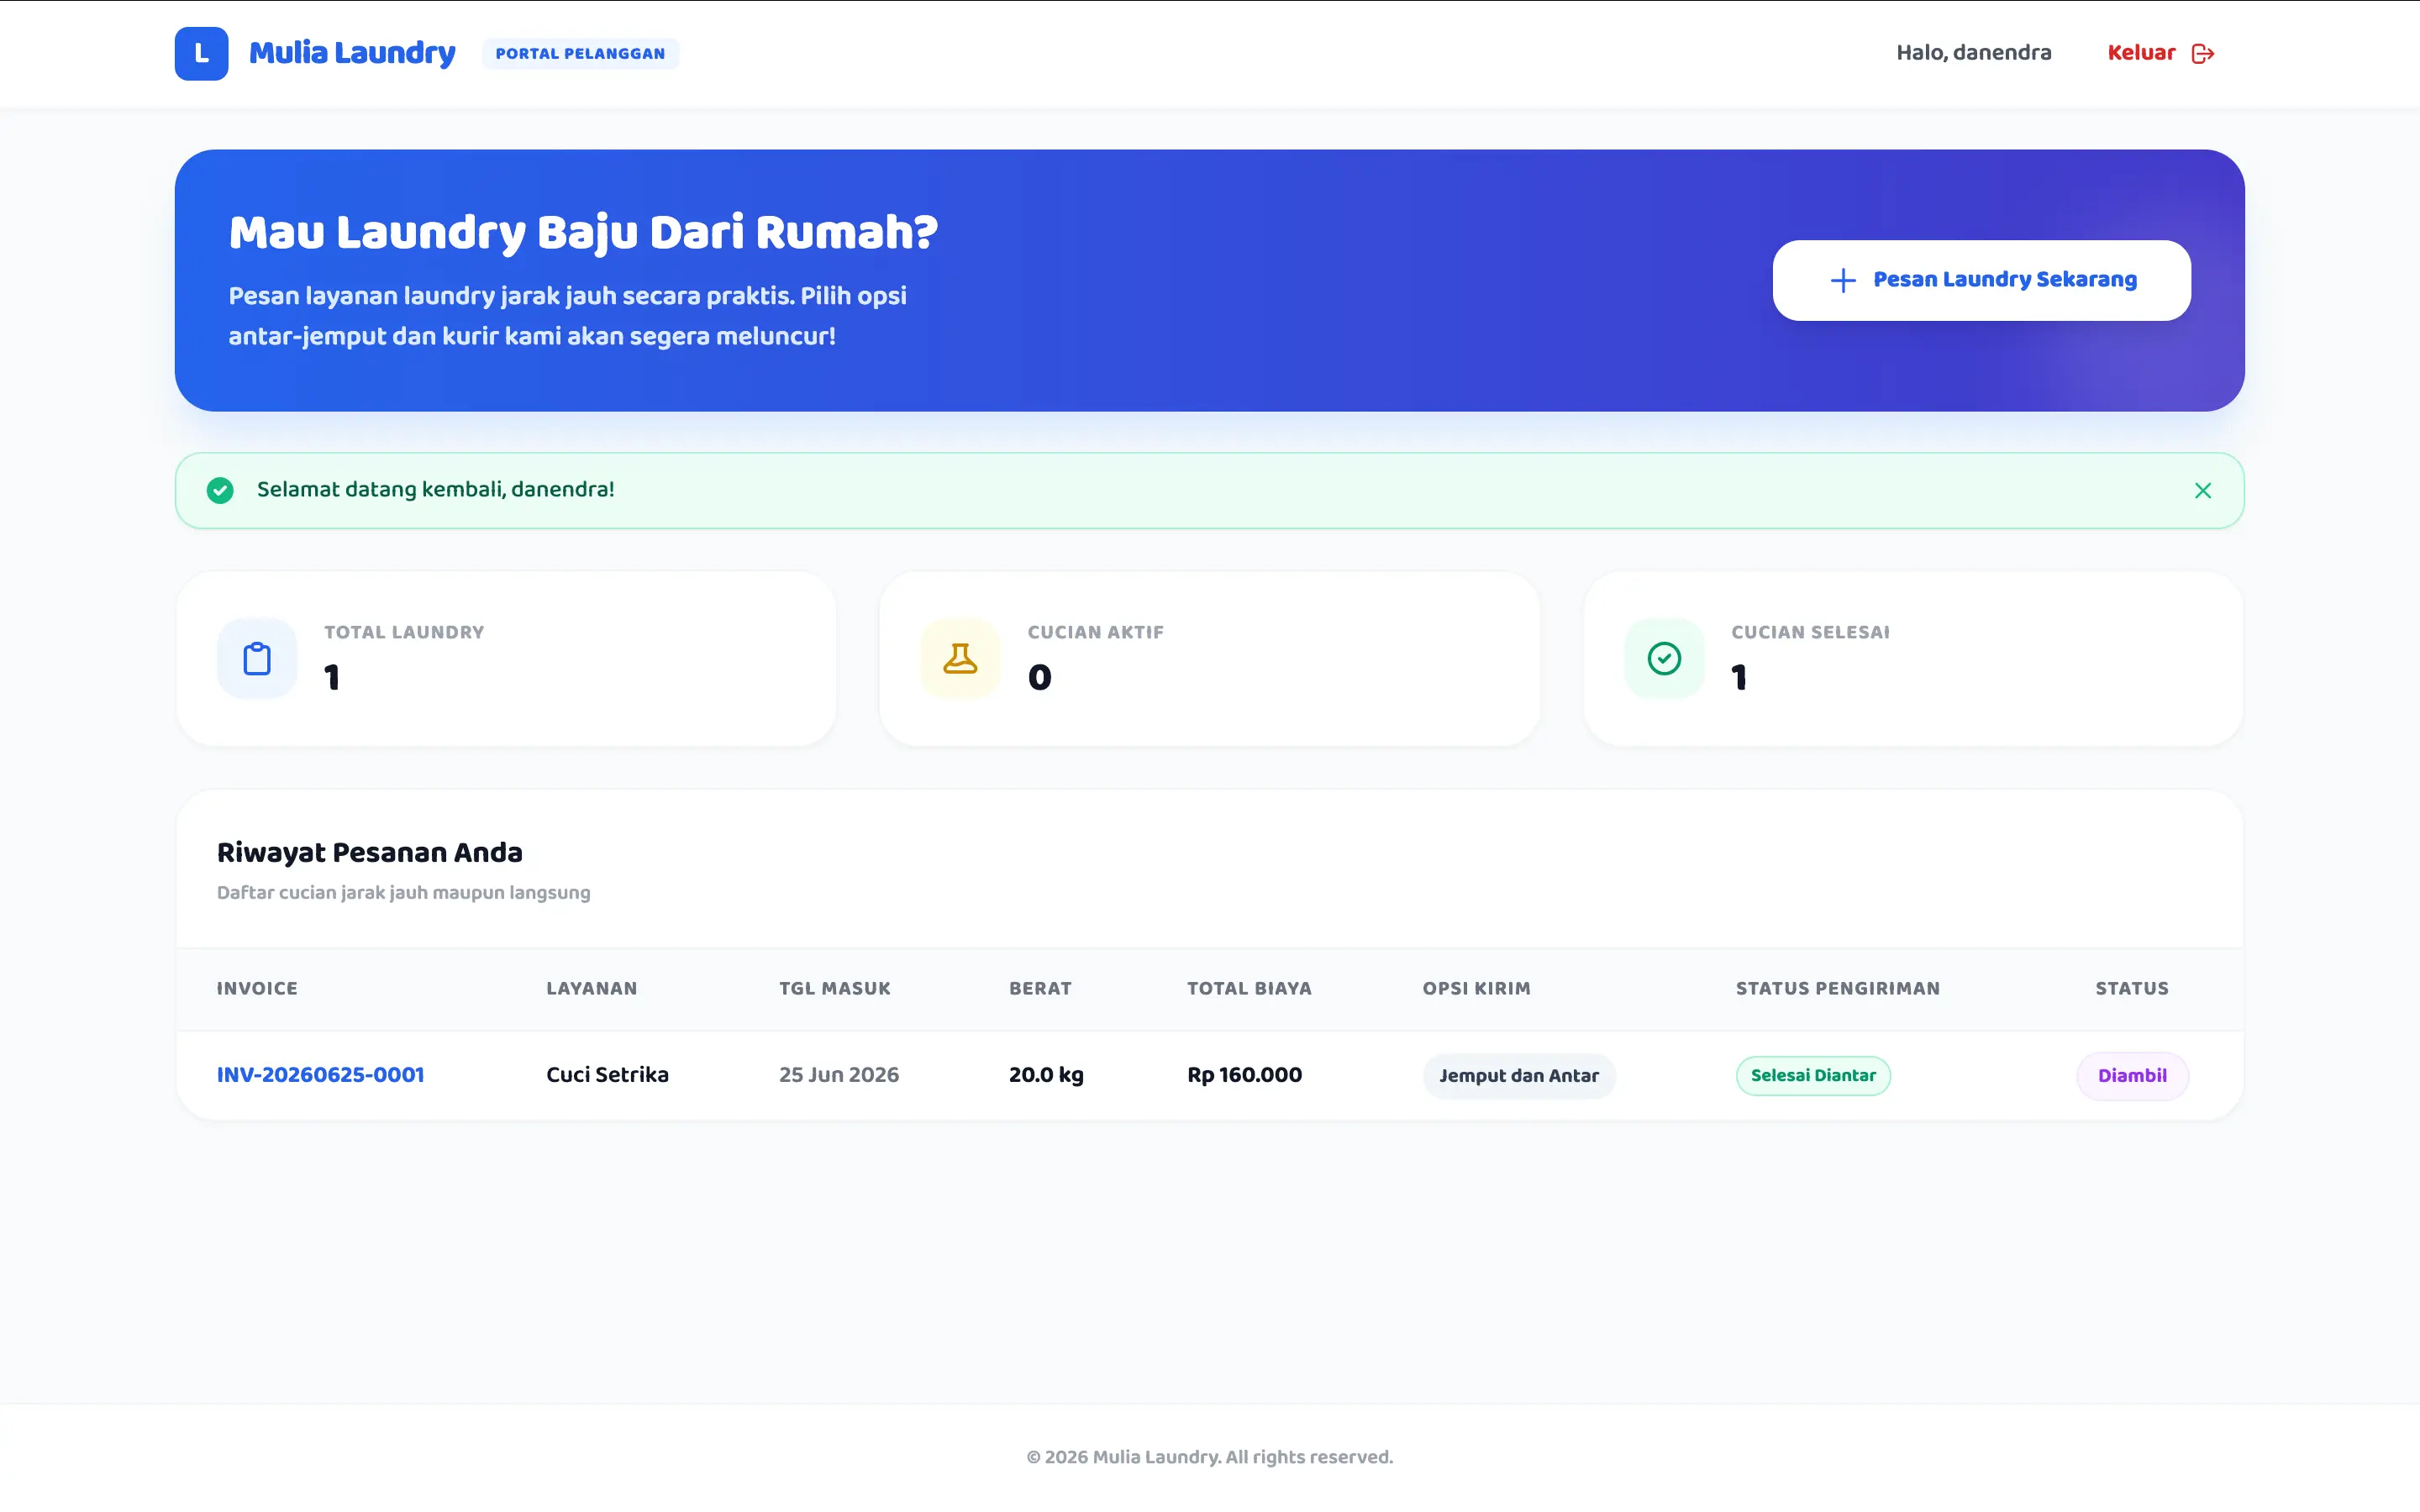
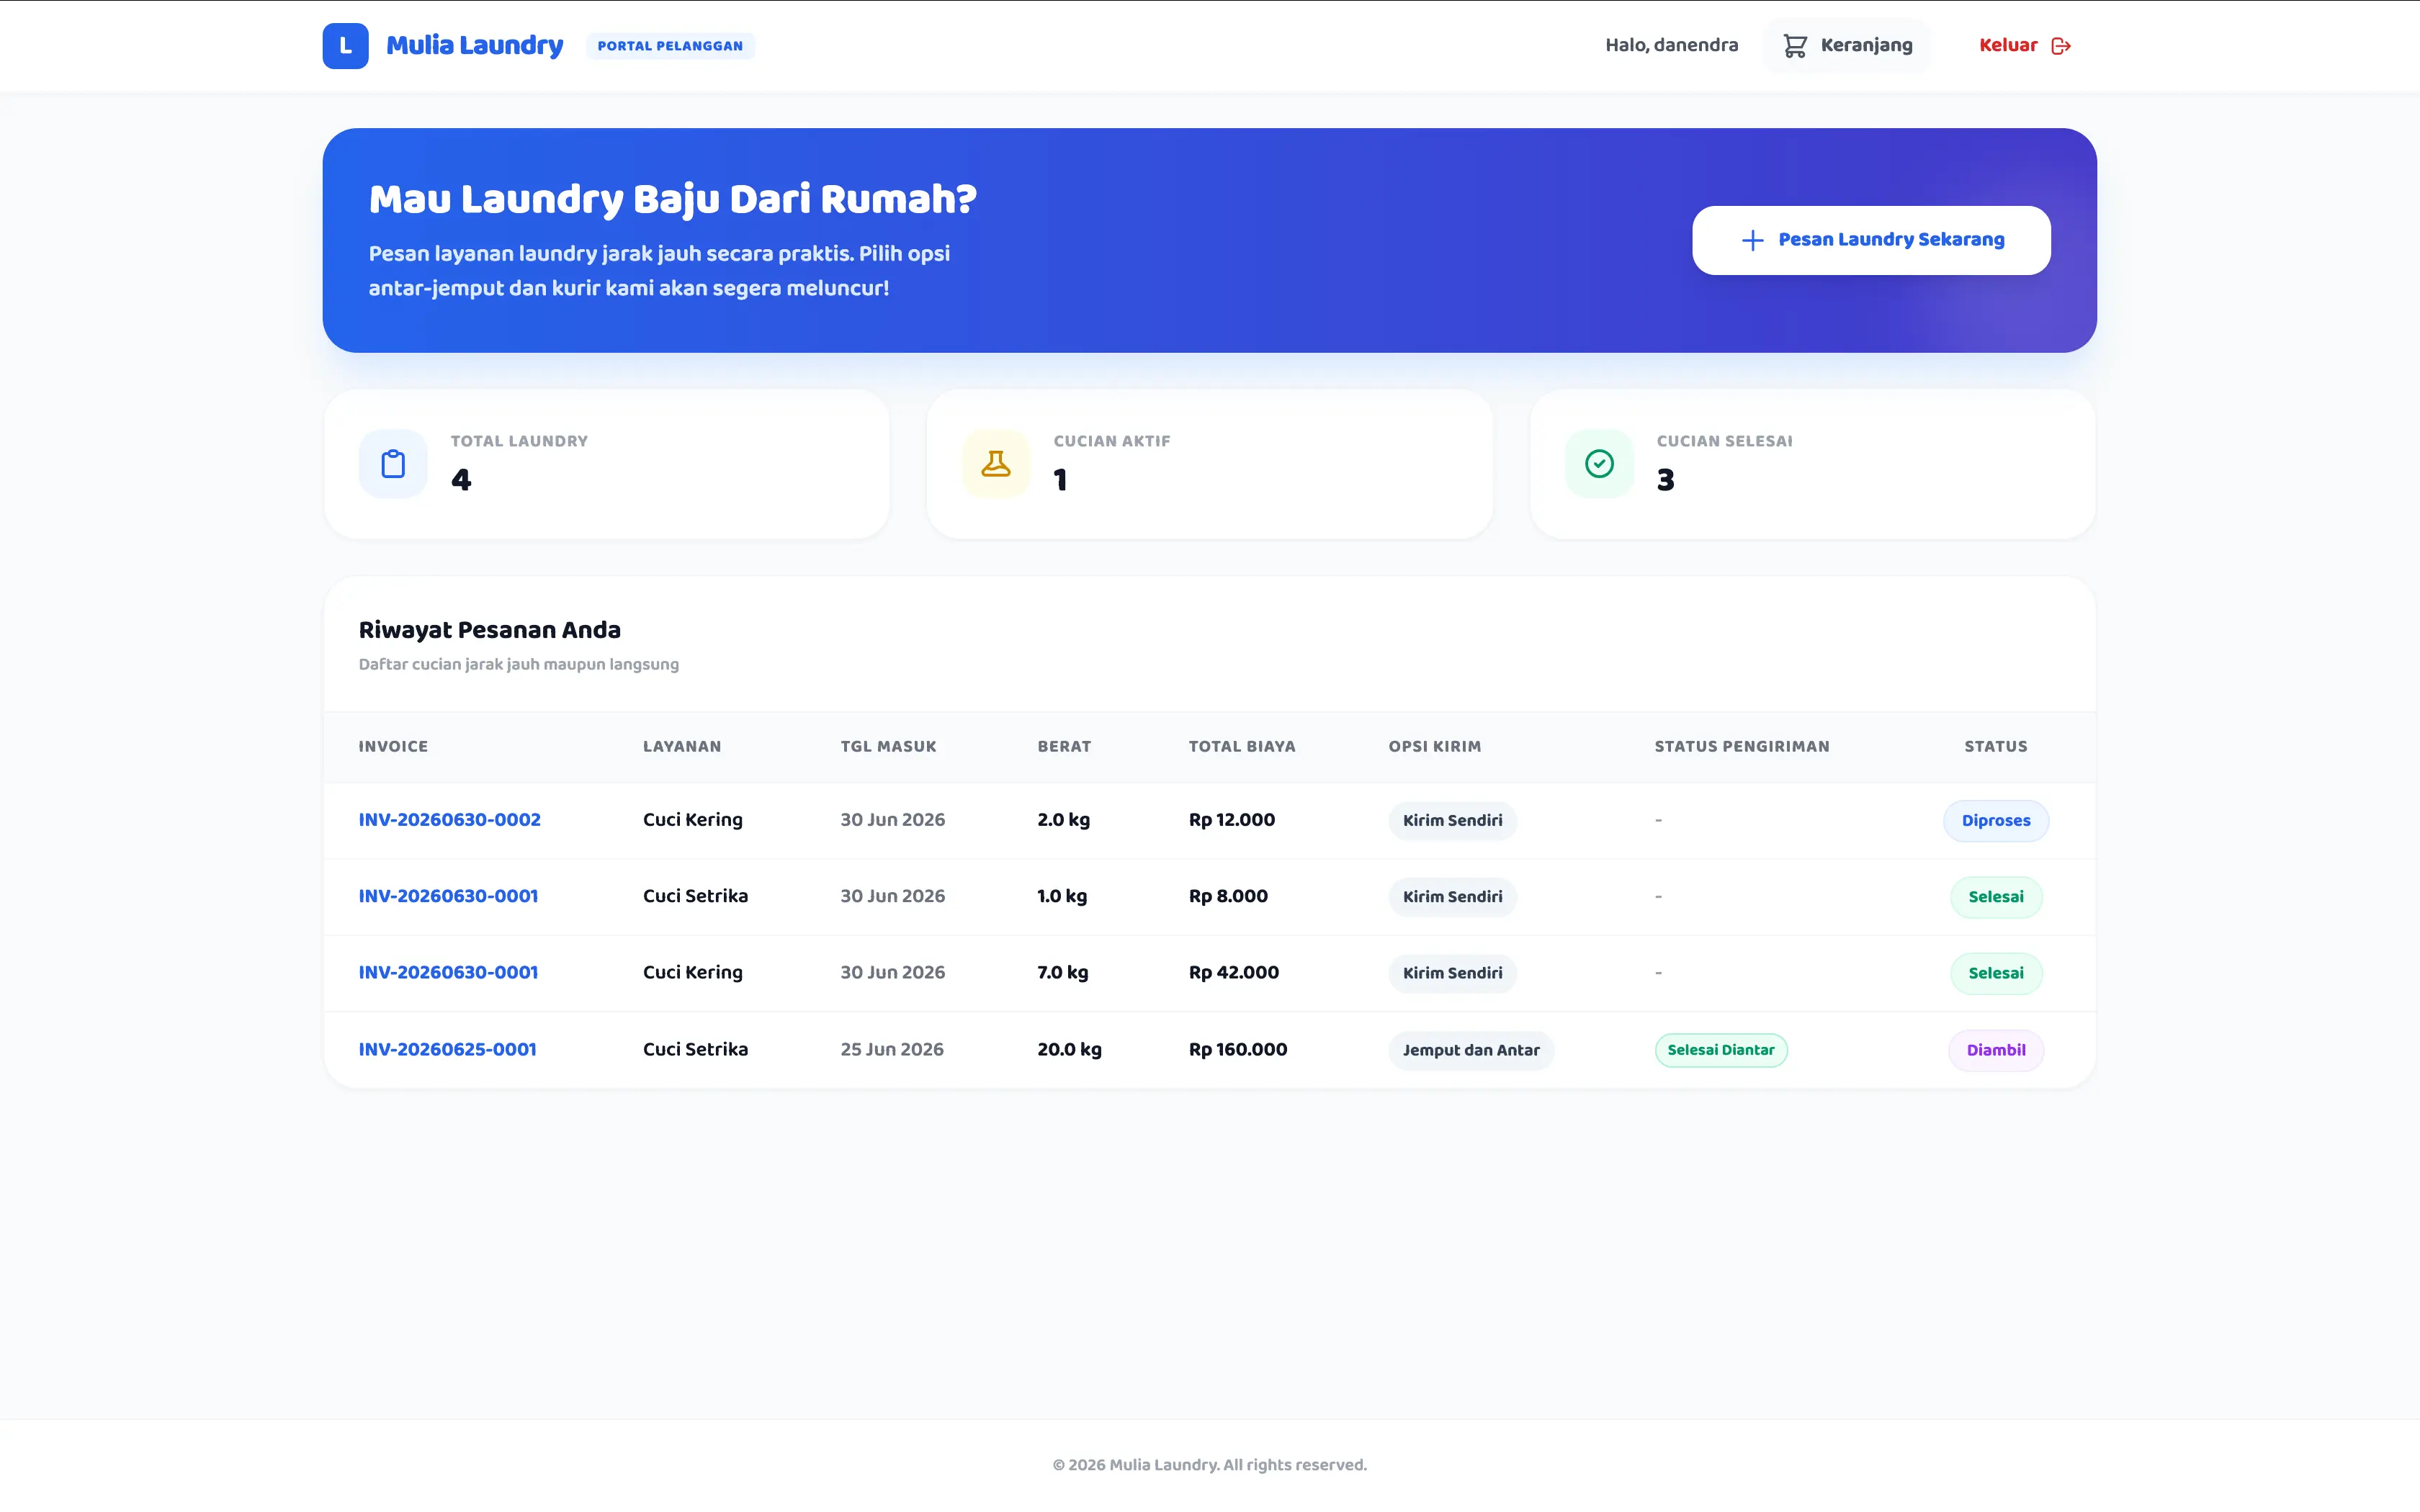
feat: add shopping cart integration and weight estimation toggle to customer portal documentation

diff --git a/README.md b/README.md
@@ -21,7 +21,8 @@ Halaman utama interaktif yang dapat diakses oleh publik untuk mengetahui informa
 ### 2. Portal & Dashboard Pelanggan
 Portal mandiri bagi pelanggan setelah melakukan registrasi/login:
 - **Registrasi Akun**: Pelanggan dapat mendaftar sendiri melalui halaman `/register` yang otomatis akan membuat data profil pelanggan baru.
-- **Pemesanan Mandiri**: Melakukan booking order laundry secara online.
+- **Pemesanan Mandiri & Keranjang Belanja (Shopping Cart)**: Memilih dan memesan beberapa layanan laundry sekaligus dalam satu pesanan terintegrasi. Didukung oleh package `jason-napolitano/codeigniter4-cart-module`.
+- **Alternatif "Timbang di Toko"**: Pilihan apabila pelanggan belum mengetahui berat pasti cuciannya. Sistem akan otomatis menyetel berat awal `0.00` (ditampilkan sebagai status *Menunggu Timbang* di dashboard) dan membiarkan petugas admin melakukan penimbangan serta memperbarui total harga setelah pakaian sampai di workshop.
 - **Opsi Pengiriman & Penjemputan**:
   - `Kirim Sendiri` (Pelanggan mengantar baju ke toko)
   - `Jemput Saja` (Petugas mengambil baju ke alamat pelanggan)
@@ -31,6 +32,7 @@ Portal mandiri bagi pelanggan setelah melakukan registrasi/login:
 - **Pelacakan Status Real-time**: Pelanggan dapat memantau status cucian (`Menunggu`, `Diproses`, `Selesai`, `Diambil`) serta status pengiriman (`None`, `Menunggu Penjemputan`, `Dalam Penjemputan`, `Selesai Dijemput`, `Menunggu Pengantaran`, `Dalam Pengantaran`, `Selesai Diantar`).
 
 ![Dashboard Pelanggan](screenshots/sc3.webp)
+![Pilih Layanan & Keranjang Belanja](screenshots/sc4.webp)
 
 ---
 